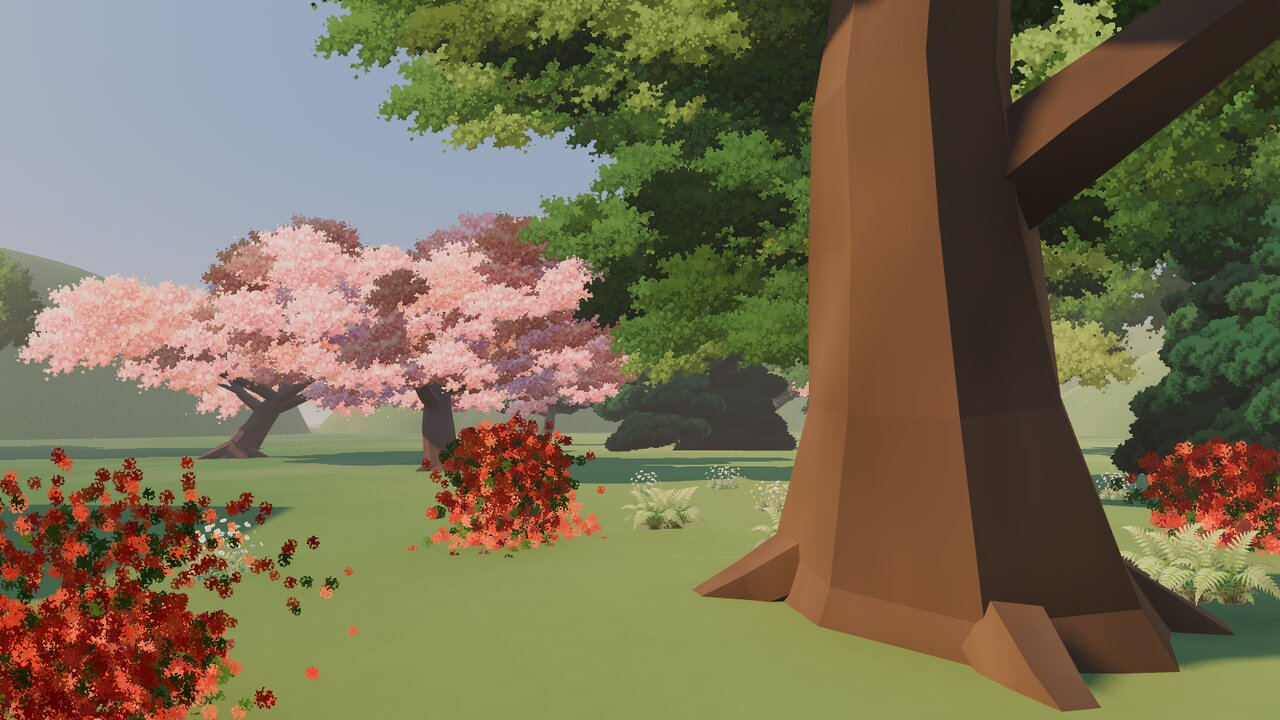
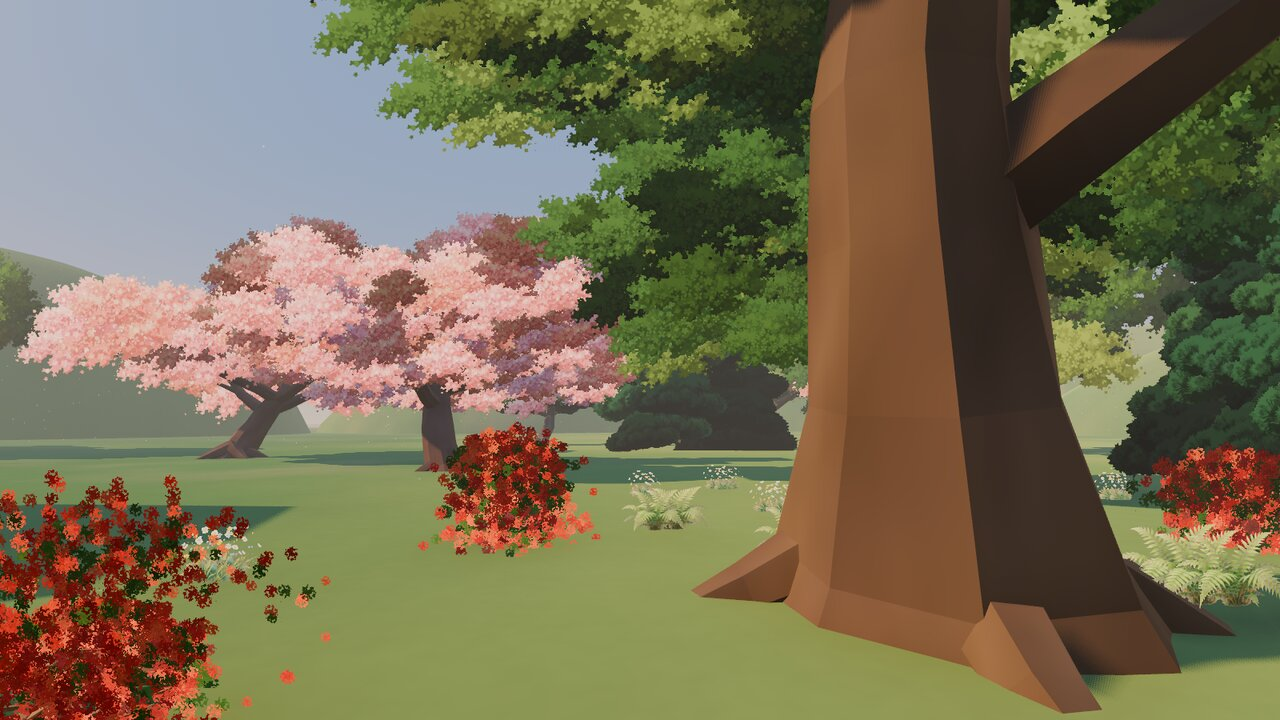
README : promenade (P)
Claude-Session: https://claude.ai/code/session_01UZmnUiz5SczuBcKcn5bhu6

diff --git a/README.md b/README.md
@@ -36,6 +36,9 @@ Au lancement, la caméra descend doucement vers un petit hameau qui sort de terr
 - **Style** : les boutons **Japonais / Médiéval** changent le style des prochaines constructions et celui de la structure sélectionnée.
 - **Annuler / rétablir** : **Ctrl+Z / Ctrl+Y** (ou les boutons). Tout s'annule : tracés, agrandissements, retouches, étages, styles, suppressions.
 - **Caméra** : clic droit (ou molette) maintenu + souris pour tourner autour, molette pour zoomer vers ce que vise la souris, **ZQSD** ou les flèches pour glisser, **A / E** pour pivoter, **F** pour recentrer. Plus tu t'approches, plus elle se baisse à hauteur de promeneur. Tous ses mouvements sont amortis.
+- **Promenade** (touche **P**) : la caméra descend à hauteur d'homme là où tu regardes. **ZQSD** pour marcher (**Maj** pour courir), clic droit + souris pour regarder. Troncs, murets et maisons arrêtent le pas, et on monte sur les terrasses. **P**, **Échap** ou molette arrière pour remonter.
+
+![Promenade dans la forêt du hameau](docs/captures/foret_promenade.jpg)
 - **Divers** : **Ctrl+S / Ctrl+O** enregistrer / recharger le hameau, **M** couper le son, **H** masquer l'interface (pour les belles captures), **Échap** annuler un tracé ou désélectionner.
 
 ![Un rectangle tiré par-dessus une maison l'agrandit en L](docs/captures/etape4_agrandir_fantome.jpg)
